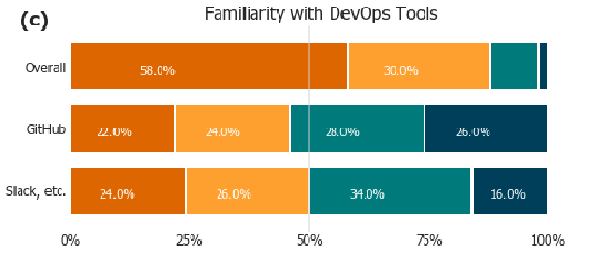
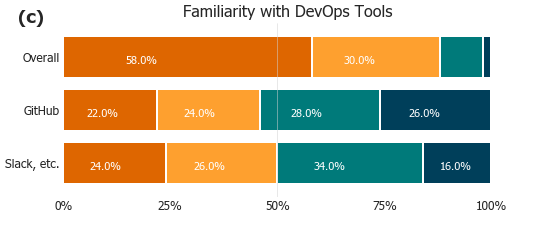
changed image resolution for tools-summary

diff --git a/results.md b/results.md
@@ -97,6 +97,8 @@ In this section, we listed essential results from the survey conducted. As such,
 #### Familiarity with DevOps Tools
 ![tools](/assets/img/familiarity-tools.png)
 
+#### Summary: Tools
+
 ![FigureCombined](/assets/img/tools-summary.png)
 
 #### Code Readabilty and Code Review
